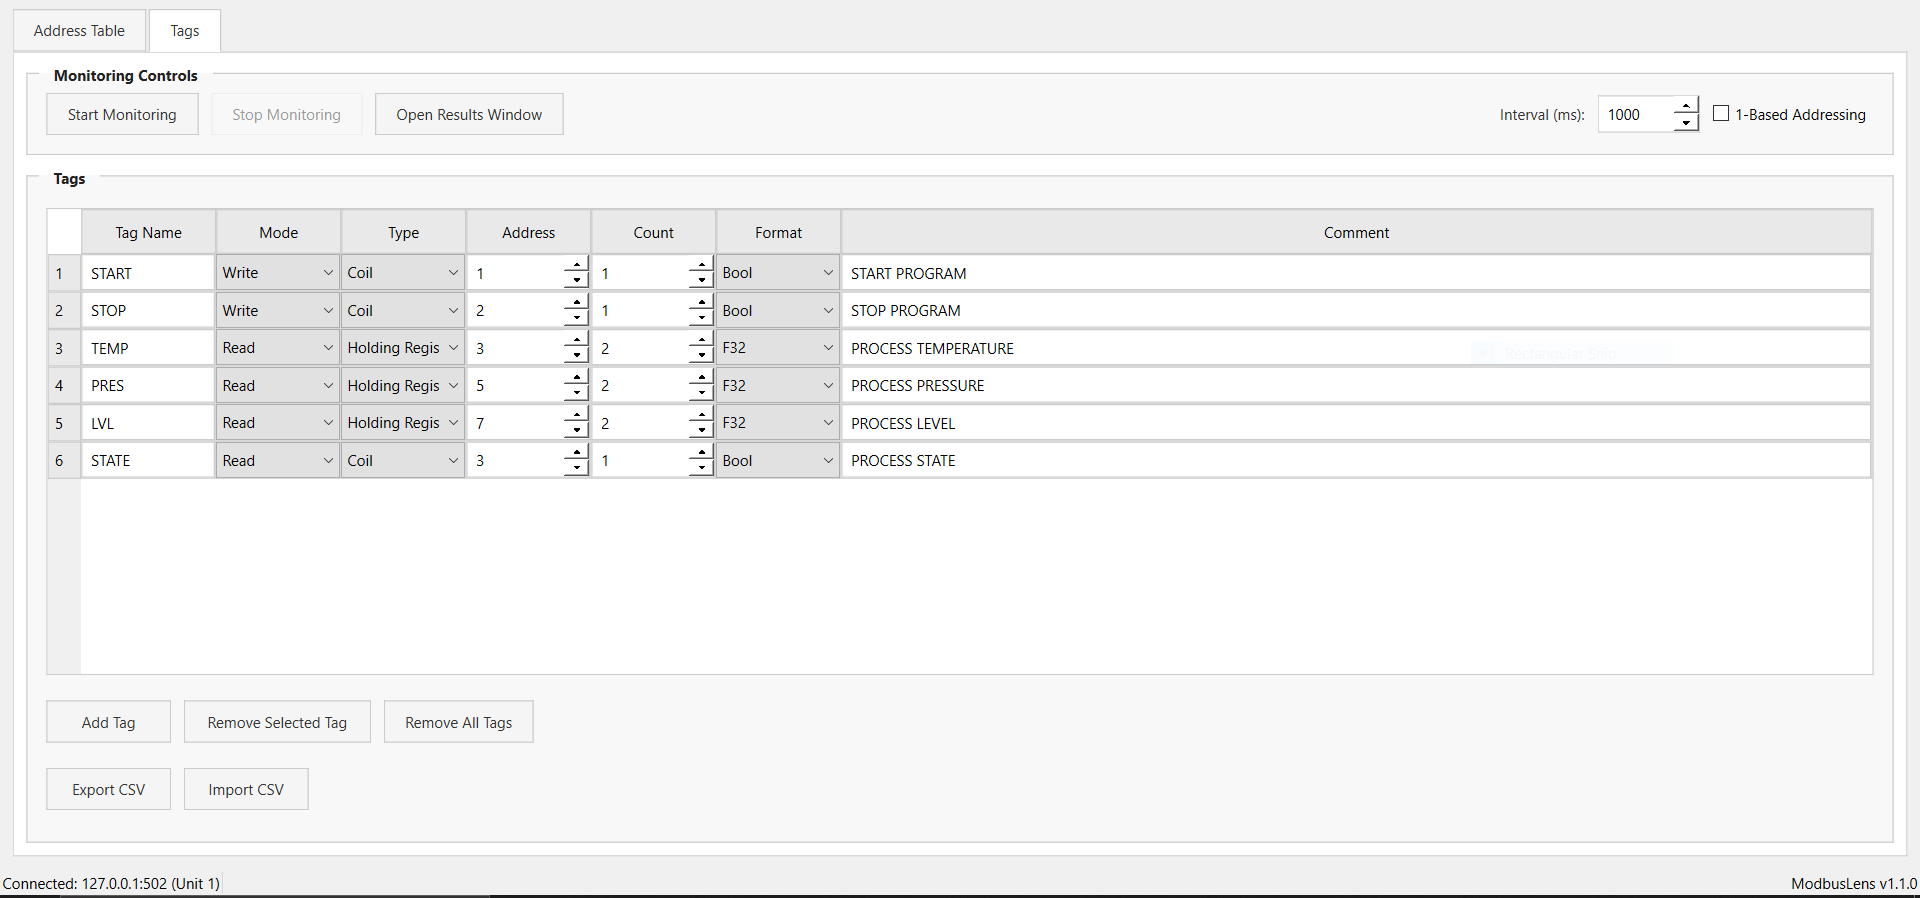
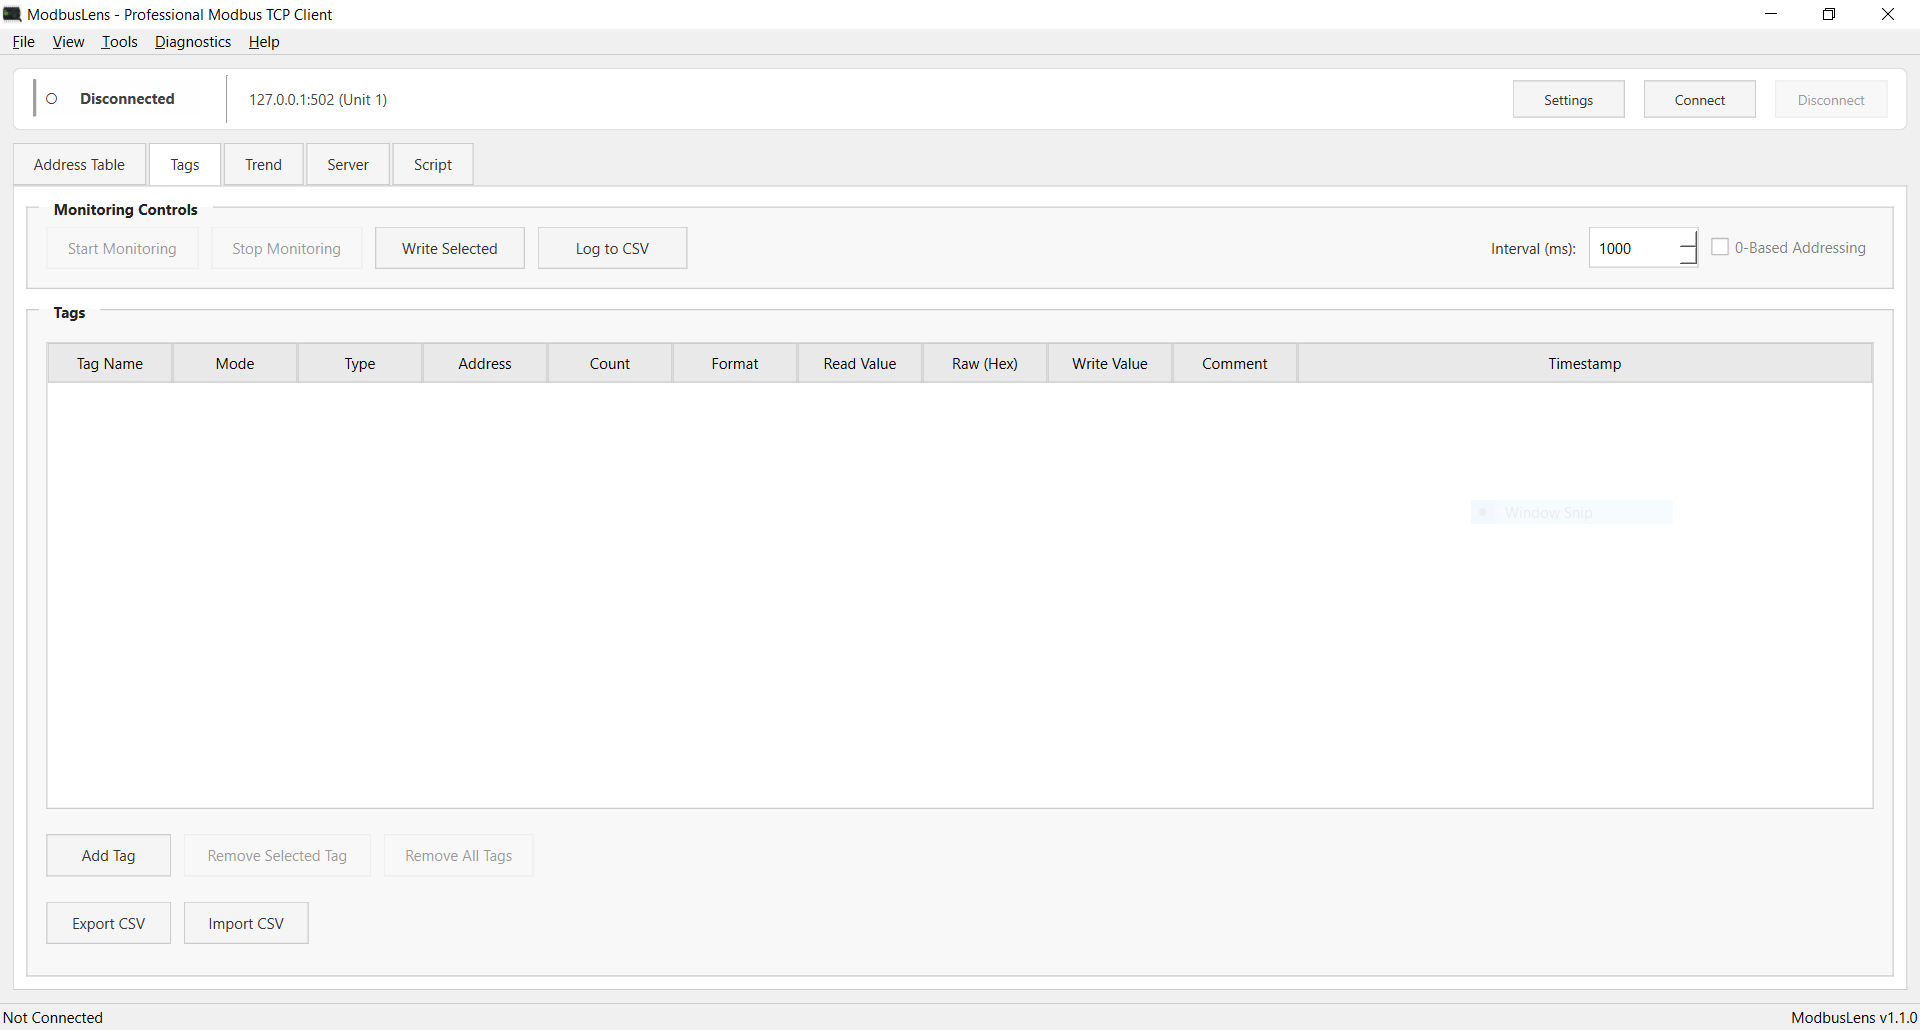
v2.0.0 + new screenshots

diff --git a/gui/main_window.py b/gui/main_window.py
@@ -33,7 +33,7 @@ from network.network_diagnostics import NetworkDiagnosticsDialog
 from core.modbus_client import ModbusClient
 from app_paths import resource_path, app_data_dir
 
-__version__ = "1.1.0"
+__version__ = "2.0.0"
 
 logging.basicConfig(level=logging.WARNING, format='%(levelname)s: %(message)s')
 
@@ -2230,17 +2230,19 @@ Unit ID: {unit_id}<br><br>
             "<h4>Key Features</h4>"
             "<ul>"
             "<li>Modbus TCP read/write (coils, inputs, registers)</li>"
-            "<li>Tag-based real-time monitoring</li>"
+            "<li>Tag-based real-time monitoring, with alarms and CSV logging</li>"
+            "<li>Live/historical trend graphing</li>"
+            "<li>Server mode - act as a Modbus TCP slave</li>"
+            "<li>Scripting language for repeatable test sequences</li>"
+            "<li>Multiple simultaneous connections (one per window)</li>"
             "<li>Network discovery & diagnostics (ARP + Modbus detection)</li>"
             "</ul>"
-            
+
             "<h4>Upcoming Features</h4>"
             "<ul>"
-            "<li>Modbus RTU support</li>"
-            "<li>Multi-device management</li>"
-            "<li>Data logging and export</li>"
-            "<li>Advanced scripting and automation</li>"
-            "<li>Graphical data visualization (charts, trends, live graphs)</li>"
+            "<li>Modbus RTU (serial) support</li>"
+            "<li>Unified multi-device dashboard</li>"
+            "<li>Register maps with mixed data types per device profile</li>"
             "</ul>"
             
             "<h4>Support</h4>"

diff --git a/README.md b/README.md
@@ -56,6 +56,21 @@
   <img src="assets/tag_address.PNG" width="90%">
 </p>
 
+### Trend
+<p align="center">
+  <img src="assets/trend.PNG" width="90%">
+</p>
+
+### Server Mode
+<p align="center">
+  <img src="assets/server.PNG" width="90%">
+</p>
+
+### Scripting
+<p align="center">
+  <img src="assets/script.PNG" width="90%">
+</p>
+
 ### Network Discovery & Diagnostics
 <p align="center">
   <img src="assets/network_diag.PNG" width="90%">